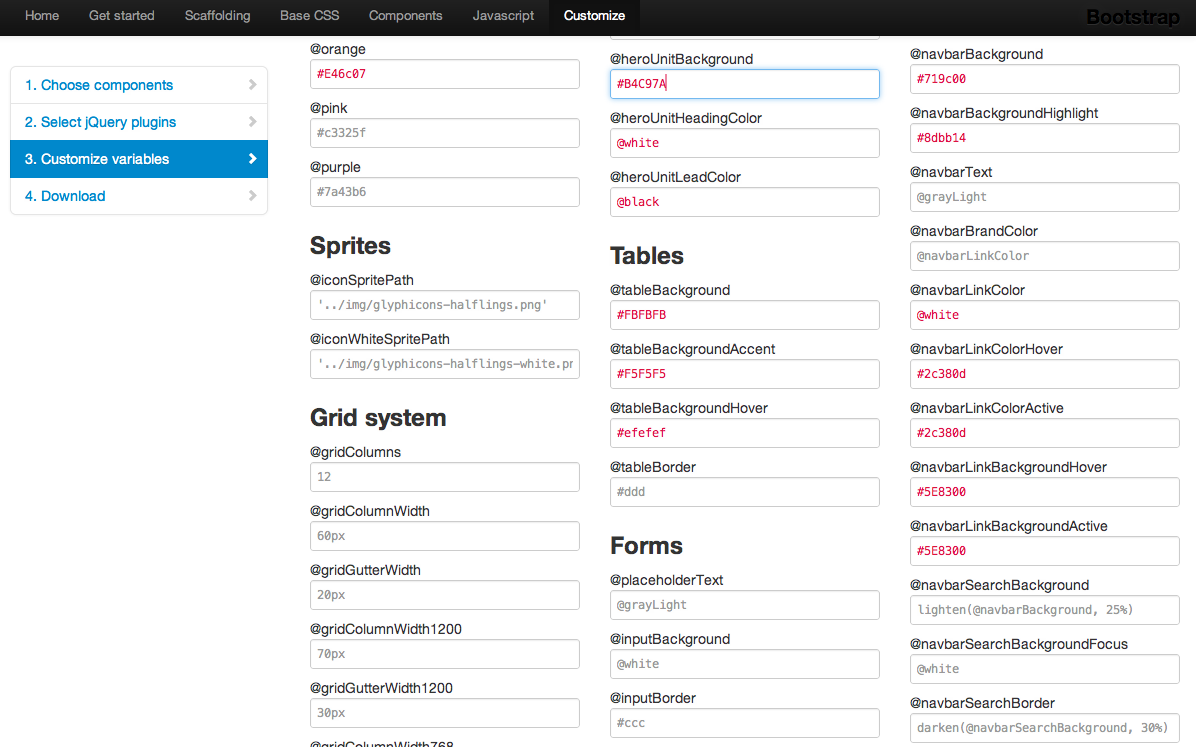
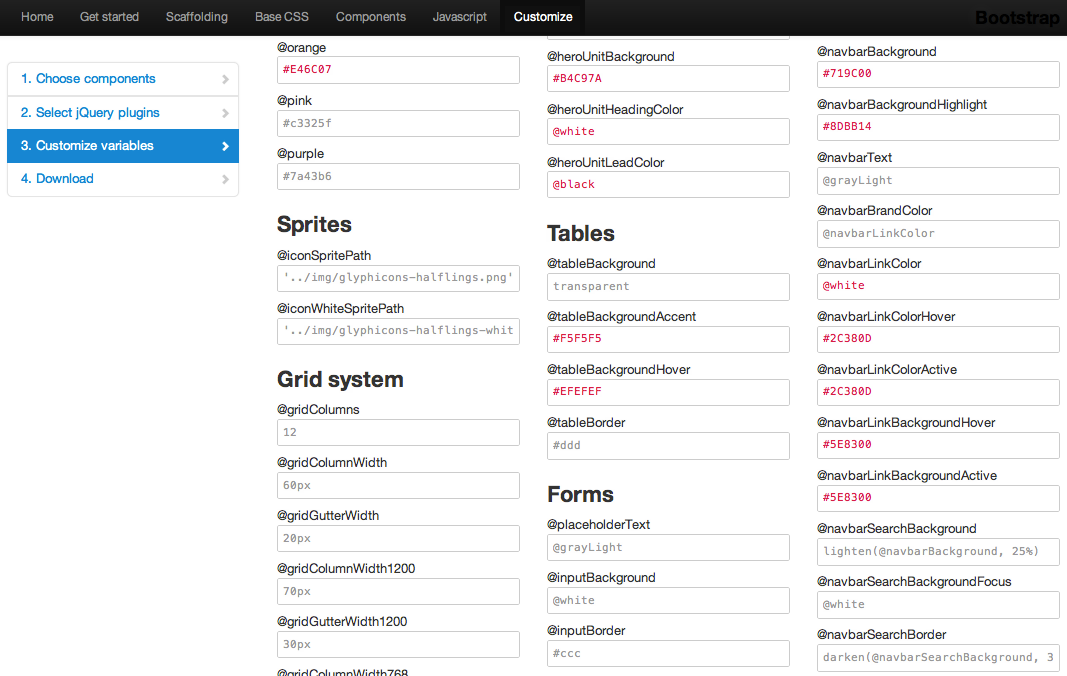
Impacto v.3.0.2 Default tables now how transparent backgrounds Restored testimonials javascript functionality Fixes for featured, above-content and below-content positions (right Chrome/Type)

diff --git a/code/js/jquery.innerfade.js b/code/js/jquery.innerfade.js
@@ -1,0 +1,128 @@
+/* =========================================================
+
+// jquery.innerfade.js
+
+// Datum: 2008-02-14
+// Firma: Medienfreunde Hofmann & Baldes GbR
+// Author: Torsten Baldes
+// Mail: t.baldes@medienfreunde.com
+// Web: http://medienfreunde.com
+
+// based on the work of Matt Oakes http://portfolio.gizone.co.uk/applications/slideshow/
+// and Ralf S. Engelschall http://trainofthoughts.org/
+
+ *
+ *  <ul id="news"> 
+ *      <li>content 1</li>
+ *      <li>content 2</li>
+ *      <li>content 3</li>
+ *  </ul>
+ *  
+ *  $('#news').innerfade({ 
+ *	  animationtype: Type of animation 'fade' or 'slide' (Default: 'fade'), 
+ *	  speed: Fading-/Sliding-Speed in milliseconds or keywords (slow, normal or fast) (Default: 'normal'), 
+ *	  timeout: Time between the fades in milliseconds (Default: '2000'), 
+ *	  type: Type of slideshow: 'sequence', 'random' or 'random_start' (Default: 'sequence'), 
+ * 		containerheight: Height of the containing element in any css-height-value (Default: 'auto'),
+ *	  runningclass: CSS-Class which the container get’s applied (Default: 'innerfade'),
+ *	  children: optional children selector (Default: null)
+ *  }); 
+ *
+
+// ========================================================= */
+
+
+(function($) {
+
+    $.fn.innerfade = function(options) {
+        return this.each(function() {   
+            $.innerfade(this, options);
+        });
+    };
+
+    $.innerfade = function(container, options) {
+        var settings = {
+        		'animationtype':    'fade',
+            'speed':            'normal',
+            'type':             'sequence',
+            'timeout':          2000,
+            'containerheight':  'auto',
+            'runningclass':     'innerfade',
+            'children':         null
+        };
+        if (options)
+            $.extend(settings, options);
+        if (settings.children === null)
+            var elements = $(container).children();
+        else
+            var elements = $(container).children(settings.children);
+        if (elements.length > 1) {
+            $(container).css('position', 'relative').css('height', settings.containerheight).addClass(settings.runningclass);
+            for (var i = 0; i < elements.length; i++) {
+                $(elements[i]).css('z-index', String(elements.length-i)).css('position', 'absolute').hide();
+            };
+            if (settings.type == "sequence") {
+                setTimeout(function() {
+                    $.innerfade.next(elements, settings, 1, 0);
+                }, settings.timeout);
+                $(elements[0]).show();
+            } else if (settings.type == "random") {
+            		var last = Math.floor ( Math.random () * ( elements.length ) );
+                setTimeout(function() {
+                    do { 
+												current = Math.floor ( Math.random ( ) * ( elements.length ) );
+										} while (last == current );             
+										$.innerfade.next(elements, settings, current, last);
+                }, settings.timeout);
+                $(elements[last]).show();
+						} else if ( settings.type == 'random_start' ) {
+								settings.type = 'sequence';
+								var current = Math.floor ( Math.random () * ( elements.length ) );
+								setTimeout(function(){
+									$.innerfade.next(elements, settings, (current + 1) %  elements.length, current);
+								}, settings.timeout);
+								$(elements[current]).show();
+						}	else {
+							alert('Innerfade-Type must either be \'sequence\', \'random\' or \'random_start\'');
+						}
+				}
+    };
+
+    $.innerfade.next = function(elements, settings, current, last) {
+        if (settings.animationtype == 'slide') {
+            $(elements[last]).slideUp(settings.speed);
+            $(elements[current]).slideDown(settings.speed);
+        } else if (settings.animationtype == 'fade') {
+            $(elements[last]).fadeOut(settings.speed);
+            $(elements[current]).fadeIn(settings.speed, function() {
+							removeFilter($(this)[0]);
+						});
+        } else
+            alert('Innerfade-animationtype must either be \'slide\' or \'fade\'');
+        if (settings.type == "sequence") {
+            if ((current + 1) < elements.length) {
+                current = current + 1;
+                last = current - 1;
+            } else {
+                current = 0;
+                last = elements.length - 1;
+            }
+        } else if (settings.type == "random") {
+            last = current;
+            while (current == last)
+                current = Math.floor(Math.random() * elements.length);
+        } else
+            alert('Innerfade-Type must either be \'sequence\', \'random\' or \'random_start\'');
+        setTimeout((function() {
+            $.innerfade.next(elements, settings, current, last);
+        }), settings.timeout);
+    };
+
+})(jQuery);
+
+// **** remove Opacity-Filter in ie ****
+function removeFilter(element) {
+	if(element.style.removeAttribute){
+		element.style.removeAttribute('filter');
+	}
+}

diff --git a/code/css/1_template.css b/code/css/1_template.css
@@ -167,11 +167,11 @@ dt label{
 dl.article-info{
 	border-bottom: 1px solid #D8D8D8;
 }
-thead{
-	background-color: #D8D8D8;
-}
-table{
+table.category {
 	background-color:#FBFBFB;
+}
+table.category thead{
+	background-color: #D8D8D8;
 }
 #sidebar1 select, #sidebar2 select{
 	min-width: 150px;
@@ -279,3 +279,37 @@ div.total {
 	}
 }
 
+/* Caption */
+
+ul.captionlist {
+    margin: 0 0 10px;
+    padding: 0;
+}
+ul.captionlist li ul {
+    margin: 0;
+    padding: 0;
+}
+#content ul.captionlist li, ul.captionlist li {
+    font-size: 1em;
+    font-weight: bold;
+    line-height: 16px;
+    list-style: none outside none;
+    padding: 2px 0;
+}
+#content ul.captionlist li li, ul.captionlist li li {
+    color: #747474;
+    font-size: 0.9em;
+    font-weight: normal;
+    padding: 0;
+}
+
+
+ul ul {
+	list-style:disc;
+}
+
+cite {
+    color: #5E5E5E;
+    float: right;
+    font: italic 1.5em Georgia,"Times New Roman",Times,serif;
+}

diff --git a/code/js/impacto.js b/code/js/impacto.js
@@ -1,0 +1,9 @@
+jQuery('document').ready(function($){
+	// fading testimonials
+	jQuery('.testimonials').innerfade({
+	animationtype: 'fade', 
+	speed: 'normal', 
+	timeout: 4000,
+	type: 'sequence',
+	containerheight: '3.5em'});
+});

diff --git a/code/template.php b/code/template.php
@@ -27,7 +27,9 @@ if ($this->countModules('toolbar')) {
 <doctype>
 	<html>
 		<head>
-			<w:head />
+			<w:head />			
+			<script type="text/javascript" src="<?php echo $this->baseurl;?>/templates/js_impacto/js/jquery.innerfade.js"></script>
+			<script type="text/javascript" src="<?php echo $this->baseurl;?>/templates/js_impacto/js/impacto.js"></script>
 		</head>
 		<body<?php if ($bodyclass != "") :?> class="<?php echo $bodyclass?>"<?php endif;?>>
 				<?php if ($this->countModules('toolbar')) :
@@ -56,7 +58,7 @@ if ($this->countModules('toolbar')) {
 						<?php if ($this->countModules('featured')) :
 						?>
 						<div id="featured">
-							<w:module type="<?php echo $gridMode;?>" name="featured" chrome="none" />
+							<w:module type="none" name="featured" chrome="xhtml" />
 						</div>
 						<?php endif;?>
 						<!-- grid-top -->
@@ -84,7 +86,7 @@ if ($this->countModules('toolbar')) {
 								?>
 								<!-- above-content -->
 								<div id="above-content">
-									<w:module type="none" name="above-content" chrome="none" />
+									<w:module type="none" name="above-content" chrome="xhtml" />
 								</div>
 								<?php endif;?>
 								<?php if ($this->countModules('breadcrumbs')) :
@@ -100,7 +102,7 @@ if ($this->countModules('toolbar')) {
 								?>
 								<!-- below-content -->
 								<div id="below-content">
-									<w:module type="none" name="below-content" chrome="none" />
+									<w:module type="none" name="below-content" chrome="xhtml" />
 								</div>
 								<?php endif;?>
 							</section>
